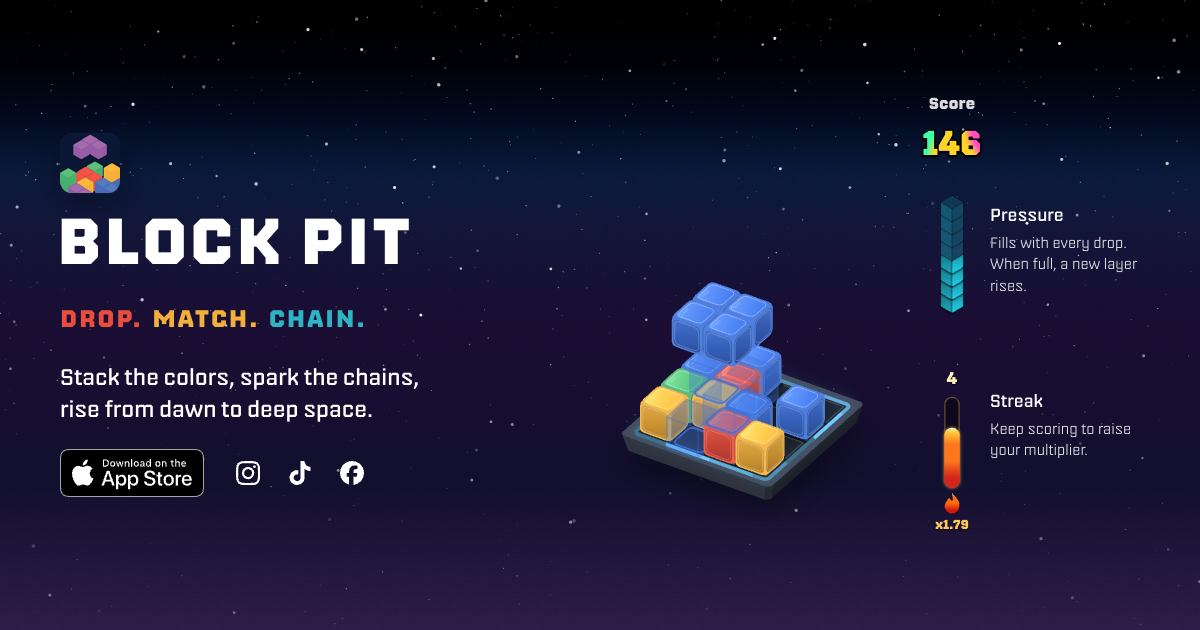
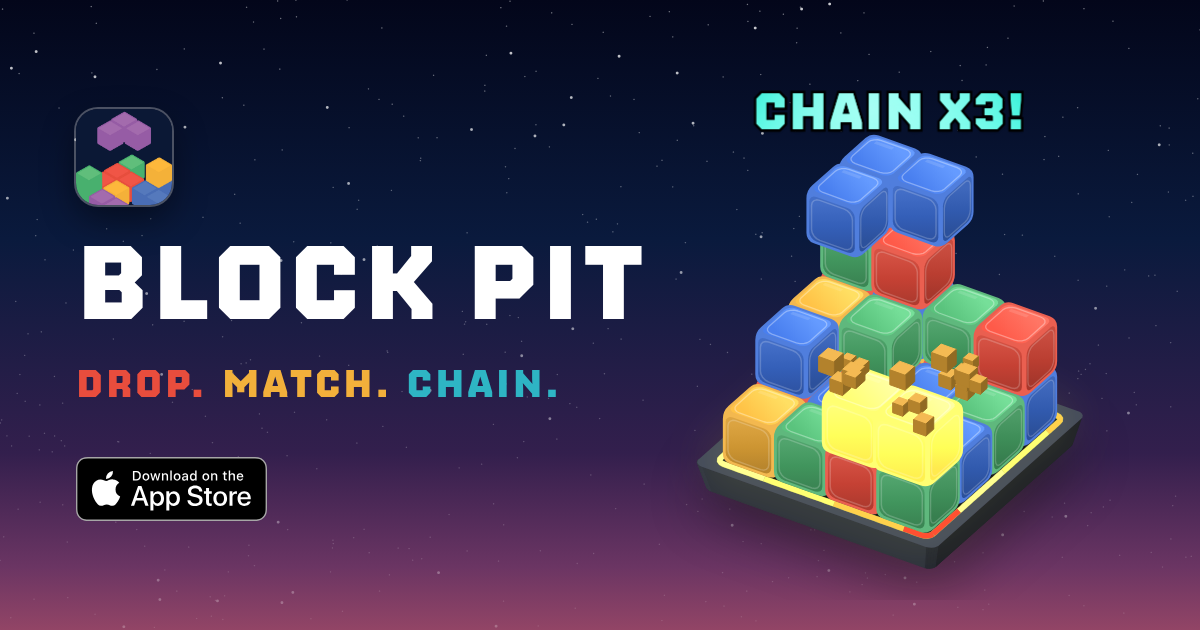
Share preview: title "Block Pit" and a dedicated card image
- og:title and twitter:title on the home page are now "Block Pit";
  the description still says it is out now on the App Store.
- share.png is no longer a screenshot of the page. tools/share.html
  draws a 1200x630 card: app icon, BLOCK PIT, the colored tagline and
  the App Store badge on the left; on the right a pit drawn with the
  site's iso renderer, two yellow blocks bursting at the front with a
  "Chain x3!" banner and a lit ember channel, over a deep-space to
  sunset sky. tools/share-image.js renders it.
- The stamp tool versions share.png URLs too, so chat apps fetch the
  new image instead of a cached one.

Claude-Session: https://claude.ai/code/session_01RgjWCtiQqPgHMZFSD4kPHf

diff --git a/index.html b/index.html
@@ -7,23 +7,23 @@
   <meta name="description" content="Match colors, trigger chain reactions, and rise from the ground to deep space. Block Pit is out now on the App Store for iPhone.">
   <meta name="theme-color" content="#000000">
   <link rel="canonical" href="https://r4mh8wp5dj-arch.github.io/">
-  <link rel="icon" type="image/png" sizes="32x32" href="assets/img/favicon-32.png?v=d2f0f5c">
-  <link rel="icon" type="image/png" sizes="16x16" href="assets/img/favicon-16.png?v=d2f0f5c">
-  <link rel="apple-touch-icon" sizes="180x180" href="assets/img/apple-touch-icon.png?v=d2f0f5c">
+  <link rel="icon" type="image/png" sizes="32x32" href="assets/img/favicon-32.png?v=f7f2e1f">
+  <link rel="icon" type="image/png" sizes="16x16" href="assets/img/favicon-16.png?v=f7f2e1f">
+  <link rel="apple-touch-icon" sizes="180x180" href="assets/img/apple-touch-icon.png?v=f7f2e1f">
   <link rel="manifest" href="site.webmanifest">
   <meta property="og:type" content="website">
   <meta property="og:site_name" content="Block Pit">
   <meta property="og:url" content="https://r4mh8wp5dj-arch.github.io/">
-  <meta property="og:title" content="Block Pit: out now on iPhone">
+  <meta property="og:title" content="Block Pit">
   <meta property="og:description" content="Match colors, trigger chain reactions, and rise from the ground to deep space. Block Pit is out now on the App Store for iPhone.">
-  <meta property="og:image" content="https://r4mh8wp5dj-arch.github.io/assets/img/share.png">
+  <meta property="og:image" content="https://r4mh8wp5dj-arch.github.io/assets/img/share.png?v=f7f2e1f">
   <meta property="og:image:width" content="1200">
   <meta property="og:image:height" content="630">
-  <meta property="og:image:alt" content="Block Pit: blocks stacked in a glowing pit under a starry sky, with the tagline Drop. Match. Chain. and a Download on the App Store badge.">
+  <meta property="og:image:alt" content="Block Pit: the app icon, the title, Drop. Match. Chain. and a Download on the App Store badge beside a glowing pit where two yellow blocks burst for a Chain x3.">
   <meta name="twitter:card" content="summary_large_image">
-  <meta name="twitter:title" content="Block Pit: out now on iPhone">
+  <meta name="twitter:title" content="Block Pit">
   <meta name="twitter:description" content="Match colors, trigger chain reactions, and rise from the ground to deep space. Block Pit is out now on the App Store for iPhone.">
-  <meta name="twitter:image" content="https://r4mh8wp5dj-arch.github.io/assets/img/share.png">
+  <meta name="twitter:image" content="https://r4mh8wp5dj-arch.github.io/assets/img/share.png?v=f7f2e1f">
   <script type="application/ld+json">
   {
     "@context": "https://schema.org",
@@ -31,7 +31,7 @@
     "name": "Block Pit",
     "description": "Match colors, trigger chain reactions, and rise from the ground to deep space. A 3D block puzzle, out now on iPhone.",
     "url": "https://r4mh8wp5dj-arch.github.io/",
-    "image": "https://r4mh8wp5dj-arch.github.io/assets/img/share.png",
+    "image": "https://r4mh8wp5dj-arch.github.io/assets/img/share.png?v=f7f2e1f",
     "genre": "Puzzle",
     "gamePlatform": "iOS",
     "operatingSystem": "iOS",
@@ -41,13 +41,13 @@
   }
   </script>
   <link rel="preload" href="assets/fonts/Nippo-Variable.ttf" as="font" type="font/ttf" crossorigin>
-  <link rel="stylesheet" href="styles.css?v=d2f0f5c">
-  <link rel="stylesheet" href="mobile.css?v=d2f0f5c" media="(max-width: 700px), (max-height: 500px) and (orientation: landscape)">
-  <script src="js/sky.js?v=d2f0f5c"></script>
-  <script src="js/iso.js?v=d2f0f5c" defer></script>
-  <script src="js/site.js?v=d2f0f5c" defer></script>
-  <script src="js/play.js?v=d2f0f5c" defer></script>
-  <script src="js/dock.js?v=d2f0f5c" defer></script>
+  <link rel="stylesheet" href="styles.css?v=f7f2e1f">
+  <link rel="stylesheet" href="mobile.css?v=f7f2e1f" media="(max-width: 700px), (max-height: 500px) and (orientation: landscape)">
+  <script src="js/sky.js?v=f7f2e1f"></script>
+  <script src="js/iso.js?v=f7f2e1f" defer></script>
+  <script src="js/site.js?v=f7f2e1f" defer></script>
+  <script src="js/play.js?v=f7f2e1f" defer></script>
+  <script src="js/dock.js?v=f7f2e1f" defer></script>
 </head>
 <body class="home">
   <svg class="sprite" aria-hidden="true" focusable="false">
@@ -56,7 +56,7 @@
     <symbol id="i-facebook" viewBox="0 0 24 24"><path d="M9.101 23.691v-7.98H6.627v-3.667h2.474v-1.58c0-4.085 1.848-5.978 5.858-5.978.401 0 .955.042 1.468.103a8.68 8.68 0 0 1 1.141.195v3.325a8.623 8.623 0 0 0-.653-.036 26.805 26.805 0 0 0-.733-.009c-.707 0-1.259.096-1.675.309a1.686 1.686 0 0 0-.679.622c-.258.42-.374.995-.374 1.752v1.297h3.919l-.386 2.103-.287 1.564h-3.246v8.245C19.396 23.238 24 18.179 24 12.044c0-6.627-5.373-12-12-12s-12 5.373-12 12c0 5.628 3.874 10.35 9.101 11.647Z"/></symbol>
   </svg>
   <header class="bar">
-    <a class="mark" href="./" aria-label="Block Pit home"><img src="assets/img/favicon-64.png?v=d2f0f5c" alt="" width="28" height="28"><span>Block Pit</span></a>
+    <a class="mark" href="./" aria-label="Block Pit home"><img src="assets/img/favicon-64.png?v=f7f2e1f" alt="" width="28" height="28"><span>Block Pit</span></a>
     <nav aria-label="Site">
       <a class="nav-x" href="#how">How to play</a>
       <a href="contact.html">Contact</a>
@@ -156,7 +156,7 @@
 
     <section class="end">
       <div class="end-in" data-ink>
-        <img class="icon" src="assets/img/logo-320.png?v=d2f0f5c" alt="Block Pit app icon" width="112" height="112">
+        <img class="icon" src="assets/img/logo-320.png?v=f7f2e1f" alt="Block Pit app icon" width="112" height="112">
         <h2>The pit is open.</h2>
         <p>On iPhone. Made by a solo developer.</p>
         <div class="cta-row">
@@ -193,7 +193,7 @@
   </footer>
 
   <aside class="dock" aria-label="Get Block Pit">
-    <img class="dock-icon" src="assets/img/logo-320.png?v=d2f0f5c" alt="" width="40" height="40">
+    <img class="dock-icon" src="assets/img/logo-320.png?v=f7f2e1f" alt="" width="40" height="40">
     <p><b>Block Pit</b><small>Out now on iPhone</small></p>
     <a class="appstore" data-appstore href="https://apps.apple.com/app/id[APP_ID]"><img src="assets/img/badges/app-store-black.svg" alt="Download Block Pit on the App Store" width="120" height="40"></a>
   </aside>

diff --git a/privacy.html b/privacy.html
@@ -7,28 +7,28 @@
   <meta name="description" content="Privacy Policy for the Block Pit iOS game: what data is collected, how advertising and analytics work, and how to exercise your GDPR, KVKK and CCPA rights.">
   <meta name="theme-color" content="#000000">
   <link rel="canonical" href="https://r4mh8wp5dj-arch.github.io/privacy.html">
-  <link rel="icon" type="image/png" sizes="32x32" href="assets/img/favicon-32.png?v=d2f0f5c">
-  <link rel="icon" type="image/png" sizes="16x16" href="assets/img/favicon-16.png?v=d2f0f5c">
-  <link rel="apple-touch-icon" sizes="180x180" href="assets/img/apple-touch-icon.png?v=d2f0f5c">
+  <link rel="icon" type="image/png" sizes="32x32" href="assets/img/favicon-32.png?v=f7f2e1f">
+  <link rel="icon" type="image/png" sizes="16x16" href="assets/img/favicon-16.png?v=f7f2e1f">
+  <link rel="apple-touch-icon" sizes="180x180" href="assets/img/apple-touch-icon.png?v=f7f2e1f">
   <link rel="manifest" href="site.webmanifest">
   <meta property="og:type" content="website">
   <meta property="og:site_name" content="Block Pit">
   <meta property="og:url" content="https://r4mh8wp5dj-arch.github.io/privacy.html">
   <meta property="og:title" content="Block Pit Privacy Policy">
   <meta property="og:description" content="How Block Pit handles your data, advertising, analytics and your rights.">
-  <meta property="og:image" content="https://r4mh8wp5dj-arch.github.io/assets/img/share.png">
+  <meta property="og:image" content="https://r4mh8wp5dj-arch.github.io/assets/img/share.png?v=f7f2e1f">
   <meta property="og:image:width" content="1200">
   <meta property="og:image:height" content="630">
   <meta property="og:image:alt" content="Block Pit: blocks stacked in a glowing pit under a starry sky, with the tagline Drop. Match. Chain. and a Download on the App Store badge.">
   <meta name="twitter:card" content="summary_large_image">
   <meta name="twitter:title" content="Block Pit Privacy Policy">
   <meta name="twitter:description" content="How Block Pit handles your data, advertising, analytics and your rights.">
-  <meta name="twitter:image" content="https://r4mh8wp5dj-arch.github.io/assets/img/share.png">
+  <meta name="twitter:image" content="https://r4mh8wp5dj-arch.github.io/assets/img/share.png?v=f7f2e1f">
   <link rel="preload" href="assets/fonts/Nippo-Variable.ttf" as="font" type="font/ttf" crossorigin>
-  <link rel="stylesheet" href="styles.css?v=d2f0f5c">
-  <link rel="stylesheet" href="mobile.css?v=d2f0f5c" media="(max-width: 700px), (max-height: 500px) and (orientation: landscape)">
-  <script src="js/sky.js?v=d2f0f5c"></script>
-  <script src="js/toc.js?v=d2f0f5c" defer></script>
+  <link rel="stylesheet" href="styles.css?v=f7f2e1f">
+  <link rel="stylesheet" href="mobile.css?v=f7f2e1f" media="(max-width: 700px), (max-height: 500px) and (orientation: landscape)">
+  <script src="js/sky.js?v=f7f2e1f"></script>
+  <script src="js/toc.js?v=f7f2e1f" defer></script>
 </head>
 <body>
   <svg class="sprite" aria-hidden="true" focusable="false">
@@ -37,7 +37,7 @@
     <symbol id="i-facebook" viewBox="0 0 24 24"><path d="M9.101 23.691v-7.98H6.627v-3.667h2.474v-1.58c0-4.085 1.848-5.978 5.858-5.978.401 0 .955.042 1.468.103a8.68 8.68 0 0 1 1.141.195v3.325a8.623 8.623 0 0 0-.653-.036 26.805 26.805 0 0 0-.733-.009c-.707 0-1.259.096-1.675.309a1.686 1.686 0 0 0-.679.622c-.258.42-.374.995-.374 1.752v1.297h3.919l-.386 2.103-.287 1.564h-3.246v8.245C19.396 23.238 24 18.179 24 12.044c0-6.627-5.373-12-12-12s-12 5.373-12 12c0 5.628 3.874 10.35 9.101 11.647Z"/></symbol>
   </svg>
   <header class="bar">
-    <a class="mark" href="./" aria-label="Block Pit home"><img src="assets/img/favicon-64.png?v=d2f0f5c" alt="" width="28" height="28"><span>Block Pit</span></a>
+    <a class="mark" href="./" aria-label="Block Pit home"><img src="assets/img/favicon-64.png?v=f7f2e1f" alt="" width="28" height="28"><span>Block Pit</span></a>
     <nav aria-label="Site">
       <a class="nav-x" href="./#how">How to play</a>
       <a href="contact.html">Contact</a>

diff --git a/contact.html b/contact.html
@@ -7,29 +7,29 @@
   <meta name="description" content="Get in touch with Block Pit by email or on Instagram.">
   <meta name="theme-color" content="#000000">
   <link rel="canonical" href="https://r4mh8wp5dj-arch.github.io/contact.html">
-  <link rel="icon" type="image/png" sizes="32x32" href="assets/img/favicon-32.png?v=d2f0f5c">
-  <link rel="icon" type="image/png" sizes="16x16" href="assets/img/favicon-16.png?v=d2f0f5c">
-  <link rel="apple-touch-icon" sizes="180x180" href="assets/img/apple-touch-icon.png?v=d2f0f5c">
+  <link rel="icon" type="image/png" sizes="32x32" href="assets/img/favicon-32.png?v=f7f2e1f">
+  <link rel="icon" type="image/png" sizes="16x16" href="assets/img/favicon-16.png?v=f7f2e1f">
+  <link rel="apple-touch-icon" sizes="180x180" href="assets/img/apple-touch-icon.png?v=f7f2e1f">
   <link rel="manifest" href="site.webmanifest">
   <meta property="og:type" content="website">
   <meta property="og:site_name" content="Block Pit">
   <meta property="og:url" content="https://r4mh8wp5dj-arch.github.io/contact.html">
   <meta property="og:title" content="Contact Block Pit">
   <meta property="og:description" content="Questions, press or feedback about Block Pit: email or Instagram.">
-  <meta property="og:image" content="https://r4mh8wp5dj-arch.github.io/assets/img/share.png">
+  <meta property="og:image" content="https://r4mh8wp5dj-arch.github.io/assets/img/share.png?v=f7f2e1f">
   <meta property="og:image:width" content="1200">
   <meta property="og:image:height" content="630">
   <meta property="og:image:alt" content="Block Pit: blocks stacked in a glowing pit under a starry sky, with the tagline Drop. Match. Chain. and a Download on the App Store badge.">
   <meta name="twitter:card" content="summary_large_image">
   <meta name="twitter:title" content="Contact Block Pit">
   <meta name="twitter:description" content="Questions, press or feedback about Block Pit: email or Instagram.">
-  <meta name="twitter:image" content="https://r4mh8wp5dj-arch.github.io/assets/img/share.png">
+  <meta name="twitter:image" content="https://r4mh8wp5dj-arch.github.io/assets/img/share.png?v=f7f2e1f">
   <link rel="preload" href="assets/fonts/Nippo-Variable.ttf" as="font" type="font/ttf" crossorigin>
-  <link rel="stylesheet" href="styles.css?v=d2f0f5c">
-  <link rel="stylesheet" href="mobile.css?v=d2f0f5c" media="(max-width: 700px), (max-height: 500px) and (orientation: landscape)">
-  <script src="js/sky.js?v=d2f0f5c"></script>
-  <script src="js/iso.js?v=d2f0f5c" defer></script>
-  <script src="js/hello.js?v=d2f0f5c" defer></script>
+  <link rel="stylesheet" href="styles.css?v=f7f2e1f">
+  <link rel="stylesheet" href="mobile.css?v=f7f2e1f" media="(max-width: 700px), (max-height: 500px) and (orientation: landscape)">
+  <script src="js/sky.js?v=f7f2e1f"></script>
+  <script src="js/iso.js?v=f7f2e1f" defer></script>
+  <script src="js/hello.js?v=f7f2e1f" defer></script>
 </head>
 <body>
   <svg class="sprite" aria-hidden="true" focusable="false">
@@ -38,7 +38,7 @@
     <symbol id="i-facebook" viewBox="0 0 24 24"><path d="M9.101 23.691v-7.98H6.627v-3.667h2.474v-1.58c0-4.085 1.848-5.978 5.858-5.978.401 0 .955.042 1.468.103a8.68 8.68 0 0 1 1.141.195v3.325a8.623 8.623 0 0 0-.653-.036 26.805 26.805 0 0 0-.733-.009c-.707 0-1.259.096-1.675.309a1.686 1.686 0 0 0-.679.622c-.258.42-.374.995-.374 1.752v1.297h3.919l-.386 2.103-.287 1.564h-3.246v8.245C19.396 23.238 24 18.179 24 12.044c0-6.627-5.373-12-12-12s-12 5.373-12 12c0 5.628 3.874 10.35 9.101 11.647Z"/></symbol>
   </svg>
   <header class="bar">
-    <a class="mark" href="./" aria-label="Block Pit home"><img src="assets/img/favicon-64.png?v=d2f0f5c" alt="" width="28" height="28"><span>Block Pit</span></a>
+    <a class="mark" href="./" aria-label="Block Pit home"><img src="assets/img/favicon-64.png?v=f7f2e1f" alt="" width="28" height="28"><span>Block Pit</span></a>
     <nav aria-label="Site">
       <a class="nav-x" href="./#how">How to play</a>
       <a href="contact.html">Contact</a>

diff --git a/tools/share.html b/tools/share.html
@@ -1,0 +1,71 @@
+<!doctype html>
+<html lang="en">
+<head>
+  <meta charset="utf-8">
+  <title>Block Pit share card</title>
+  <link rel="stylesheet" href="../styles.css">
+  <style>
+    html, body { margin: 0; width: 1200px; height: 630px; overflow: hidden; background: #050A1E; }
+    .card { position: relative; width: 1200px; height: 630px; overflow: hidden; background: linear-gradient(180deg, #03061A 0%, #0A1A3D 38%, #331F4D 72%, #6B3563 90%, #D9616B 118%); }
+    .card canvas { position: absolute; }
+    #stars { inset: 0; width: 1200px; height: 630px; }
+    #pit { left: 610px; top: 40px; width: 560px; height: 560px; }
+    .copy { position: absolute; left: 76px; top: 0; bottom: 0; display: flex; flex-direction: column; justify-content: center; align-items: flex-start; color: #fff; }
+    .icon { width: 96px; height: 96px; border-radius: 22px; box-shadow: 0 0 0 2px rgba(255, 255, 255, .28), 0 14px 34px rgba(0, 0, 0, .45); }
+    h1 { margin-top: 30px; font-size: 104px; line-height: .9; letter-spacing: .04em; }
+    .tag { margin-top: 26px; font-size: 38px; letter-spacing: .08em; }
+    .tag b { font-weight: 700; }
+    .badge { margin-top: 44px; height: 64px; width: auto; }
+    .banner { position: absolute; left: 890px; top: 112px; font-size: 50px; }
+  </style>
+</head>
+<body>
+  <div class="card">
+    <canvas id="stars"></canvas>
+    <canvas id="pit"></canvas>
+    <span class="pop pop-banner pop-c2 banner"><i data-t="Chain x3!"><b>Chain x3!</b></i></span>
+    <div class="copy">
+      <img class="icon" src="../assets/img/logo-320.png" alt="">
+      <h1>Block Pit</h1>
+      <p class="tag"><b class="k-r">Drop.</b> <b class="k-y">Match.</b> <b class="k-c">Chain.</b></p>
+      <img class="badge" src="../assets/img/badges/app-store-black.svg" alt="">
+    </div>
+  </div>
+  <script src="../js/iso.js"></script>
+  <script>
+    (function () {
+      var I = window.BP.iso;
+      var sc = document.getElementById('stars'), g = sc.getContext('2d');
+      sc.width = 2400; sc.height = 1260; g.scale(2, 2);
+      var seed = 7; function R() { seed = (seed * 16807) % 2147483647; return (seed - 1) / 2147483646; }
+      for (var i = 0; i < 520; i++) {
+        var y = R() * 630, big = R() < 0.1;
+        g.globalAlpha = (big ? 0.8 : 0.45) * (1 - y / 630 * 0.7);
+        g.fillStyle = '#fff';
+        g.beginPath(); g.arc(R() * 1200, y, big ? 1.4 : 0.7, 0, 6.2832); g.fill();
+      }
+      var cv = document.getElementById('pit'), F = I.fit(cv), ctx = F.ctx;
+      var cam = I.fitCam(I.view(Math.PI / 4 - 0.22, 0.6), F.w, F.h, 4, -0.6, 5.4, 0.06, [2, 2, 2]);
+      I.plate(ctx, cam, { led: [255, 150, 90], gain: 1.9, palette: [[255, 42, 26], [255, 110, 40], [255, 175, 60], [255, 224, 77]], flow: 0.05 });
+      var H = [[0, 0, [1, 0, 2]], [1, 0, [3, 1, 0]], [2, 0, [0, 2]], [3, 0, [1, 0]],
+               [0, 1, [2, 3]], [1, 1, [0, 2]], [2, 1, [1]], [3, 1, [2]],
+               [0, 2, [0, 1]], [1, 2, [1]], [2, 2, [0]], [3, 2, [1]],
+               [0, 3, [3]], [1, 3, [2]], [2, 3, [0]], [3, 3, [2]]];
+      var items = [];
+      H.forEach(function (c) { c[2].forEach(function (col, y) { items.push({ x: c[0], y: y, z: c[1], c: col }); }); });
+      [[2, 3], [3, 3]].forEach(function (p) { items.push({ x: p[0], y: 1, z: p[1], c: 3, f: 0.75, k: 1.08 }); });
+      var S = 3;
+      function r() { S = (S * 16807) % 2147483647; return (S - 1) / 2147483646; }
+      [[2.5, 3.5], [3.5, 3.5]].forEach(function (o) {
+        for (var k = 0; k < 9; k++) {
+          var a = r() * 6.2832, d = 0.55 + r() * 0.8;
+          items.push({ x: o[0] + Math.cos(a) * d - 0.15, y: 1.6 + r() * 1.2, z: o[1] + Math.sin(a) * d - 0.15, c: 3, k: 0.17 + r() * 0.13, lo: true });
+        }
+      });
+      items.push({ x: 1, y: 4.2, z: 1, c: 1 }, { x: 2, y: 4.2, z: 1, c: 1 }, { x: 1, y: 4.2, z: 2, c: 1 });
+      I.cubes(ctx, items, cam);
+      document.body.setAttribute('data-ready', '1');
+    })();
+  </script>
+</body>
+</html>

diff --git a/404.html b/404.html
@@ -7,15 +7,15 @@
   <meta name="description" content="This page does not exist. Head back to Block Pit.">
   <meta name="robots" content="noindex">
   <meta name="theme-color" content="#000000">
-  <link rel="icon" type="image/png" sizes="32x32" href="/assets/img/favicon-32.png?v=d2f0f5c">
-  <link rel="icon" type="image/png" sizes="16x16" href="/assets/img/favicon-16.png?v=d2f0f5c">
-  <link rel="apple-touch-icon" sizes="180x180" href="/assets/img/apple-touch-icon.png?v=d2f0f5c">
+  <link rel="icon" type="image/png" sizes="32x32" href="/assets/img/favicon-32.png?v=f7f2e1f">
+  <link rel="icon" type="image/png" sizes="16x16" href="/assets/img/favicon-16.png?v=f7f2e1f">
+  <link rel="apple-touch-icon" sizes="180x180" href="/assets/img/apple-touch-icon.png?v=f7f2e1f">
   <link rel="preload" href="/assets/fonts/Nippo-Variable.ttf" as="font" type="font/ttf" crossorigin>
-  <link rel="stylesheet" href="/styles.css?v=d2f0f5c">
-  <link rel="stylesheet" href="/mobile.css?v=d2f0f5c" media="(max-width: 700px), (max-height: 500px) and (orientation: landscape)">
-  <script src="/js/sky.js?v=d2f0f5c"></script>
-  <script src="/js/iso.js?v=d2f0f5c" defer></script>
-  <script src="/js/lost.js?v=d2f0f5c" defer></script>
+  <link rel="stylesheet" href="/styles.css?v=f7f2e1f">
+  <link rel="stylesheet" href="/mobile.css?v=f7f2e1f" media="(max-width: 700px), (max-height: 500px) and (orientation: landscape)">
+  <script src="/js/sky.js?v=f7f2e1f"></script>
+  <script src="/js/iso.js?v=f7f2e1f" defer></script>
+  <script src="/js/lost.js?v=f7f2e1f" defer></script>
 </head>
 <body>
   <main class="lost" data-ink>

diff --git a/tools/share-image.js b/tools/share-image.js
@@ -2,12 +2,13 @@ const path = require('path');
 const puppeteer = require('puppeteer-core');
 const CHROME = process.env.CHROME_PATH || '/Applications/Google Chrome.app/Contents/MacOS/Google Chrome';
 (async () => {
-  const b = await puppeteer.launch({ executablePath: CHROME, headless: 'new' });
+  const b = await puppeteer.launch({ executablePath: CHROME, headless: 'new', args: process.getuid && process.getuid() === 0 ? ['--no-sandbox', '--no-proxy-server'] : ['--no-proxy-server'] });
   const p = await b.newPage();
   await p.setViewport({ width: 1200, height: 630, deviceScaleFactor: 1 });
-  await p.goto('http://localhost:8765/index.html', { waitUntil: 'networkidle0' });
-  await p.addStyleTag({ content: '.bar,.pit-pops{display:none!important}.hero{min-height:630px!important;padding-top:0!important;padding-bottom:0!important;align-items:center}' });
-  await new Promise(r => setTimeout(r, 9000));
+  await p.goto('http://localhost:8765/tools/share.html', { waitUntil: 'load' });
+  await p.evaluate(() => document.fonts.ready);
+  await p.waitForSelector('body[data-ready]');
+  await new Promise(r => setTimeout(r, 300));
   await p.screenshot({ path: path.resolve(__dirname, '../assets/img/share.png'), clip: { x: 0, y: 0, width: 1200, height: 630 } });
   await b.close();
   console.log('Wrote assets/img/share.png');

diff --git a/tools/stamp.js b/tools/stamp.js
@@ -10,7 +10,7 @@ let changed = 0;
 pages.forEach(file => {
   const full = path.join(ROOT, file);
   const before = fs.readFileSync(full, 'utf8');
-  const after = before.replace(/((?:href|src)="\/?(?:styles\.css|mobile\.css|js\/[\w.-]+\.js|assets\/img\/(?:favicon-\d+|apple-touch-icon|logo-\d+|icon-\d+)\.png))(?:\?v=[\w.-]*)?"/g, `$1?v=${hash}"`);
+  const after = before.replace(/((?:href|src)="\/?(?:styles\.css|mobile\.css|js\/[\w.-]+\.js|assets\/img\/(?:favicon-\d+|apple-touch-icon|logo-\d+|icon-\d+)\.png))(?:\?v=[\w.-]*)?"/g, `$1?v=${hash}"`).replace(/(assets\/img\/share\.png)(?:\?v=[\w.-]*)?"/g, `$1?v=${hash}"`);
   if (after !== before) { fs.writeFileSync(full, after); changed++; }
 });
 
